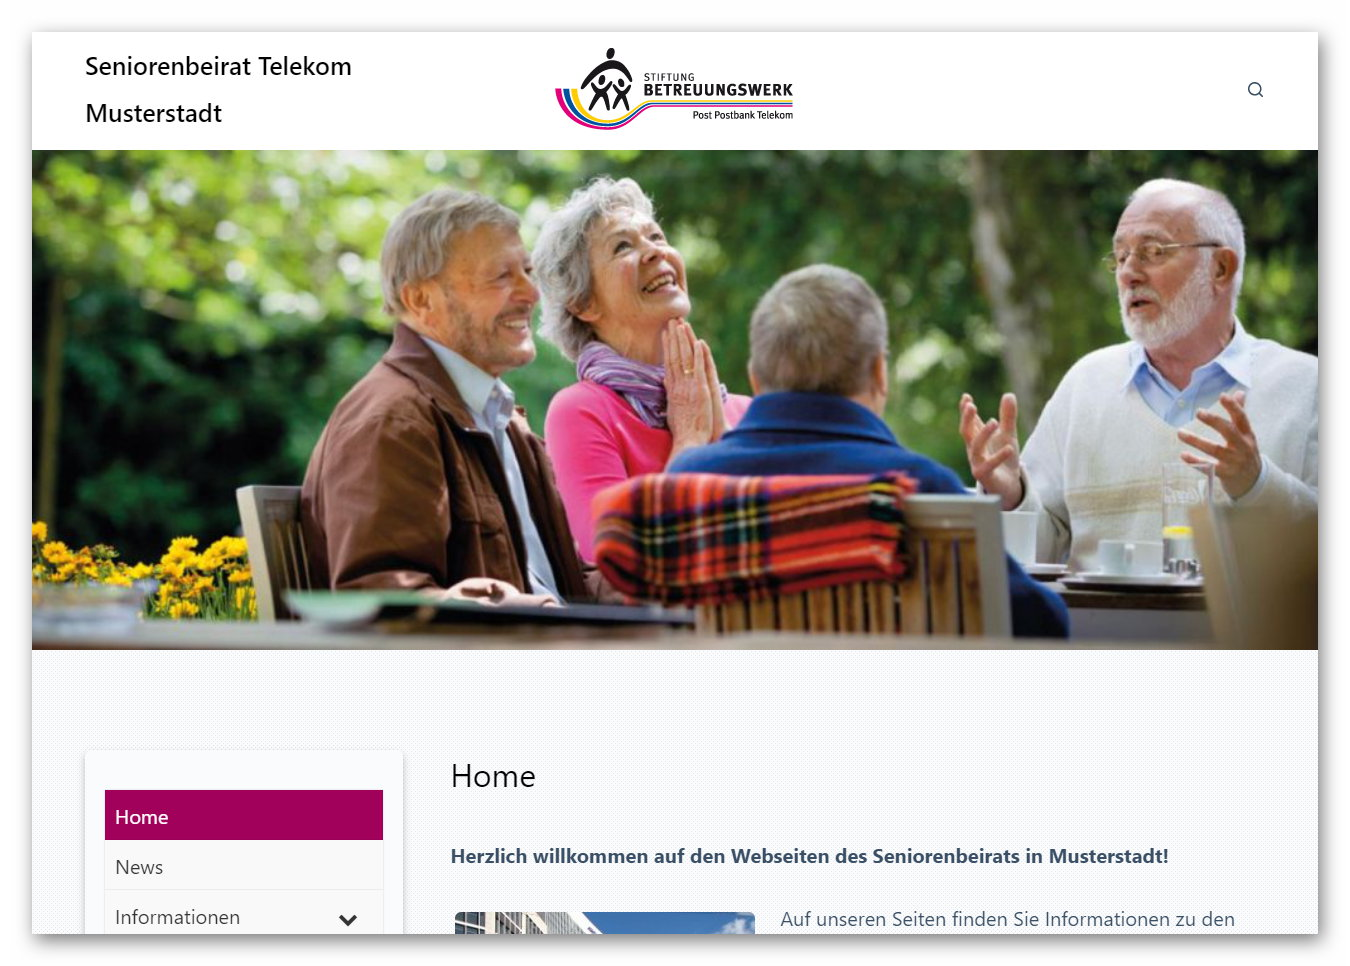
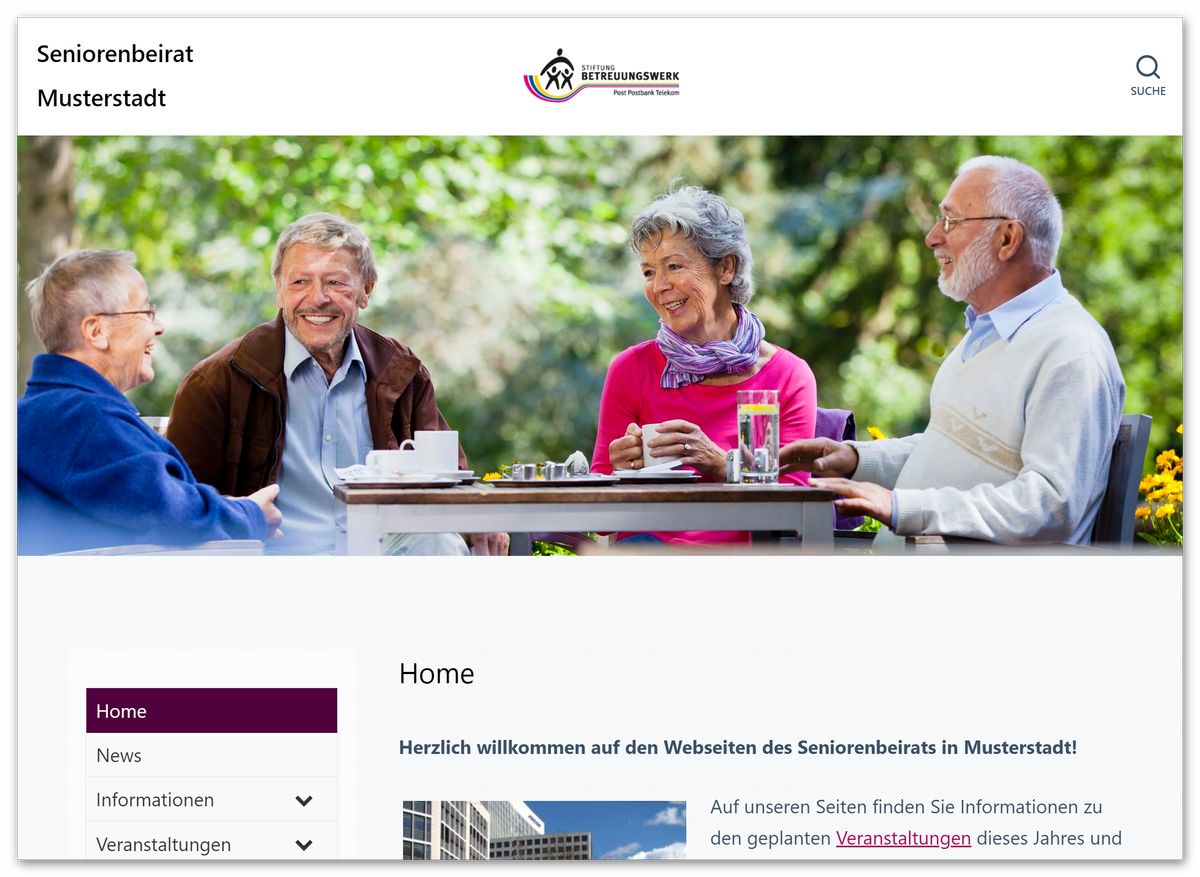
Update 0.9.7.3

diff --git a/style.css b/style.css
@@ -5,8 +5,8 @@ Description:        SBR-Theme für Websites der SBR-Gremien Post Postbank Teleko
 Author:             Hans M. Herbrand
 Author URI:         https://herbrand.org
 Template:           blocksy
-Version:            0.9.6.3.6
-Date:               2022-01-31
+Version:            0.9.7.3
+Date:               2022-03-10
 License:            GNU General Public License v2 or later
 License URI:        http://www.gnu.org/licenses/gpl-2.0.html
 Tags:               Block Editor Styles, Blog, BuddyPress, Custom Colors, Custom Logo, Custom Menu,
@@ -111,9 +111,21 @@ td, th {
         background-color: #fff;
         padding: 20px;
     }
-    /* Schrift Site-Beschreibung */
+	/* Seiten */
+	.entry-content {
+		margin-left: 5px !important;
+	}
+    /* Seiten-Titel */
+	.page-title{
+		font-size: 17px !important;
+	}
+	/* Schrift Site-Titel */
+	.site-title {
+		font-size: 15px !important;
+	}	
+	/* Schrift Site-Beschreibung */
     .site-description {
-        font-size: 15px !important;
+        font-size: 12px !important;
     }
     /* Titelbild Rand links */
     .title-image-page-home {

diff --git a/header_home.php b/header_home.php
@@ -1,6 +1,6 @@
 <?php
 /**
- * The header for start page
+ * The header for our theme
  *
  * This is the template that displays all of the <head> section and everything up until <div id="content">
  *
@@ -9,44 +9,46 @@
  * @package Blocksy
  */
 
-;?>
-
-<!doctype html>
-<html <?php language_attributes();?>>
+?><!doctype html>
+<html <?php language_attributes(); ?>>
 <head>
-    <?php do_action('blocksy:head:start');?>
+    <?php do_action('blocksy:head:start') ?>
 
-    <meta charset="<?php bloginfo('charset');?>">
+    <meta charset="<?php bloginfo( 'charset' ); ?>">
     <meta name="viewport" content="width=device-width, initial-scale=1, maximum-scale=5, viewport-fit=cover">
     <link rel="profile" href="https://gmpg.org/xfn/11">
 
-    <?php wp_head();?>
-    <?php do_action('blocksy:head:end');?>
+    <?php wp_head(); ?>
+    <?php do_action('blocksy:head:end') ?>
 </head>
 
-<body <?php body_class();?> <?php echo blocksy_body_attr(); ?>>
+<body <?php body_class(); ?> <?php echo blocksy_body_attr() ?>>
 
-<a class="skip-link show-on-focus" href="#main">
+<a class="skip-link show-on-focus" href="<?php echo apply_filters('blocksy:head:skip-to-content:href', '#main') ?>">
     <?php echo __('Skip to content', 'blocksy'); ?>
 </a>
 
 <?php
-if (function_exists('wp_body_open')) {
-    wp_body_open();
-}
+    ob_start();
+    blocksy_output_header();
+    $global_header = ob_get_clean();
+
+    if (function_exists('wp_body_open')) {
+        wp_body_open();
+    }
 ?>
 
 <div id="main-container">
     <?php
-do_action('blocksy:header:before');
+        do_action('blocksy:header:before');
 
-blocksy_output_header();
+        echo $global_header;
 
-do_action('blocksy:header:after');
-do_action('blocksy:content:before');
-?>
+        do_action('blocksy:header:after');
+        do_action('blocksy:content:before');
+    ?>
 
-    <main <?php echo blocksy_main_attr(); ?>>
+    <main <?php echo blocksy_main_attr() ?>>
 <?php
 /* Headerbild für die Startseite
  * Eigenes Headerbild in die Mediathek hochladen
@@ -65,7 +67,7 @@ if ($sbr_headerbild == true) {
         echo "/wp-content/themes/sbr-theme-2/images/sbr_banner.jpg"; /* Default-Bild */
     }
     ?>"
-alt="" width="2335" height="329"/>
+alt="" width="1920" height="690"/>
 <br>
 </div>
 <?php
